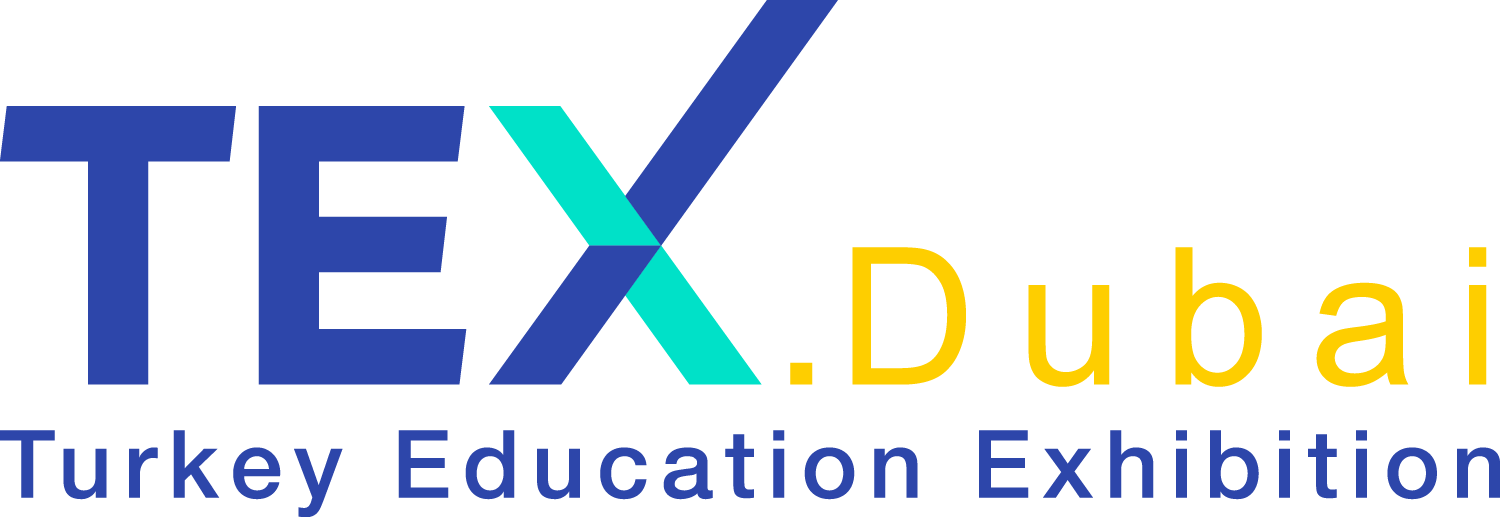
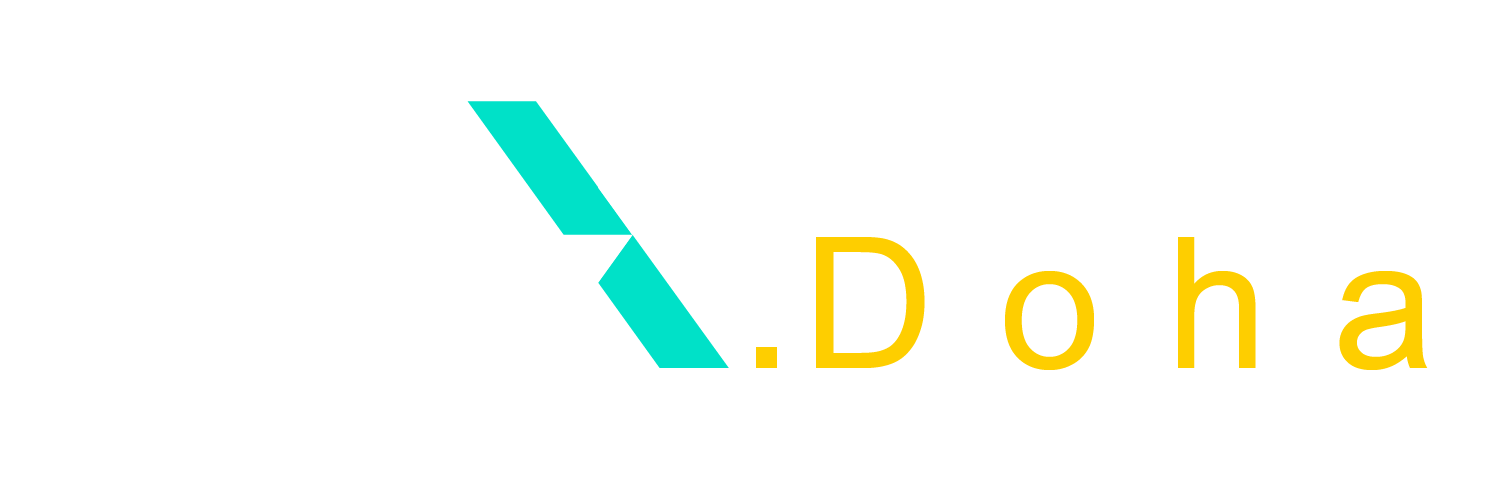
pre lunch

diff --git a/routes/index.js b/routes/index.js
@@ -44,7 +44,7 @@ router.post("/scan", async (req, res) => {
   console.log(req.body);
   await newVisitor.save();
 
-  const url = "http://dubai.marifetedu.com/visitor/" + newVisitor._id.toString();
+  const url = "http://doha.marifetedu.com/visitor/" + newVisitor._id.toString();
 
   // If the input is null return "Empty Data" error
   if (newVisitor.length === 0) res.send("Empty Data!");
@@ -121,7 +121,7 @@ router.get('/visitor/:id', async (req, res) => {
       } else {
         // const time = moment(foundVisitor.dateOfBirth);
         // const dob = time.format("DD/MM/YYYY");
-        const qrurl = "http://dubai.marifetedu.com/visitor/" + id.toString();
+        const qrurl = "http://doha.marifetedu.com/visitor/" + id.toString();
         qr.toDataURL(qrurl, (err, src) => {
           if (err) res.send("Error occured")
           res.render('visitor', {
@@ -143,7 +143,7 @@ router.get('/visitor/:id', async (req, res) => {
         } else {
           // const time = moment(foundVisitor.dateOfBirth);
           // const dob = time.format("DD/MM/YYYY");
-          const qrurl = "http://dubai.marifetedu.com/visitor/" + id.toString();
+          const qrurl = "http://doha.marifetedu.com/visitor/" + id.toString();
           qr.toDataURL(qrurl, (err, src) => {
             if (err) res.send("Error occured")
             res.render('adminInfo', {
@@ -166,7 +166,7 @@ router.get('/visitor/:id', async (req, res) => {
             res.redirect('/');
           } else {
             if (foundVisitor.seenBy == req.user.username){
-              const qrurl = "http://dubai.marifetedu.com/visitor/" + id.toString();
+              const qrurl = "http://doha.marifetedu.com/visitor/" + id.toString();
             qr.toDataURL(qrurl, (err, src) => {
               if (err) res.send("Error occured")
               res.render('info', {
@@ -183,7 +183,7 @@ router.get('/visitor/:id', async (req, res) => {
               newVisitor.attended = true;
               newVisitor.save();
               foundVisitor.seenBy = req.user.username;
-              const qrurl = "http://dubai.marifetedu.com/visitor/" + id.toString();
+              const qrurl = "http://doha.marifetedu.com/visitor/" + id.toString();
               qr.toDataURL(qrurl, (err, src) => {
                 if (err) res.send("Error occured")
                 res.redirect('/visitor/' + newVisitor._id);
@@ -259,7 +259,7 @@ router.get("/user/:id/print", async (req, res) => {
     context.textAlign = 'center';
     context.fillStyle = '#000000';
     context.fillText(text, 380, 180)
-    const qrurl = "http://dubai.marifetedu.com/visitor/" + id.toString();
+    const qrurl = "http://doha.marifetedu.com/visitor/" + id.toString();
     qr.toDataURL(qrurl, (err, src) => {
       if (err) {
         res.send("Error occured")

diff --git a/public/stylesheets/style.css b/public/stylesheets/style.css
@@ -175,7 +175,7 @@ ul{
 
 /* gray scale logo effect  */
 .friend-logo {
-  height: 250px;
+  height: 200px;
   width: auto;
   filter: grayscale(100%);
   -webkit-filter: grayscale(100%);
